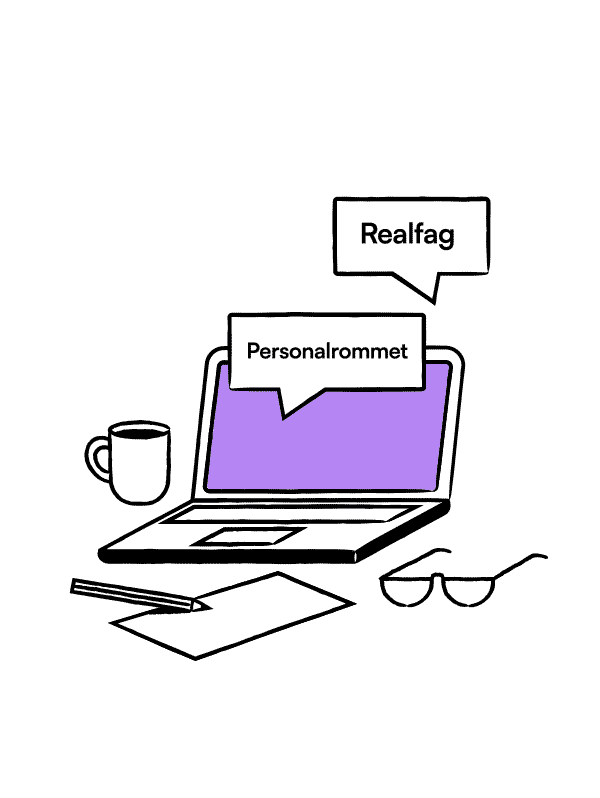
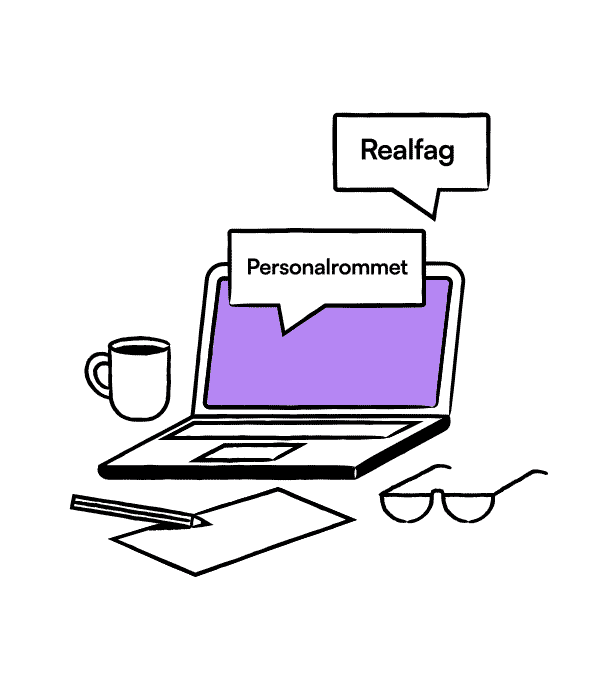
refactor(ndla-frontend): use design tokens instead of magic numbers on the arena page

Changed region(s): [[0.12, 0.1542, 0.84, 0.8634], [0.84, 0.6784, 0.93, 0.7093]]

diff --git a/frontend/ndla-frontend/src/containers/ArenaCampaignPage/ArenaHero.tsx b/frontend/ndla-frontend/src/containers/ArenaCampaignPage/ArenaHero.tsx
@@ -6,6 +6,7 @@
  *
  */
 
+import { breakpoints } from "@ndla/core";
 import { ArrowRightLine } from "@ndla/icons";
 import {
   Button,
@@ -28,11 +29,11 @@ const HeroSection = styled(ArenaSection, {
   base: {
     display: "flex",
     overflow: "hidden",
-    background: "purple.300",
+    background: "surface.brand.1.moderate",
     color: "text.onAction",
-    minHeight: "800px",
+    minHeight: "surface.xxlarge",
     desktop: {
-      minHeight: "clamp(600px, 60vw, 960px)",
+      minHeight: "surface.xlarge",
     },
   },
 });
@@ -46,10 +47,9 @@ const HeroImageWrapper = styled("div", {
       content: "''",
       position: "absolute",
       inset: "0",
-      background: "linear-gradient(180deg, rgba(0, 0, 0, 0) 25%, rgba(0, 0, 0, 0.55) 45%, rgba(0, 0, 0, 0.72) 100%)",
+      background: "linear-gradient(to bottom, transparent 25%, token(colors.grey.950/70) 50%)",
       desktop: {
-        background:
-          "linear-gradient(90deg, rgba(0, 0, 0, 0.6) 0%, rgba(0, 0, 0, 0.45) 50%, rgba(0, 0, 0, 0) 75%), linear-gradient(58.6deg, rgba(0, 0, 0, 0.6) 38.9%, rgba(0, 0, 0, 0.11) 63.9%)",
+        background: "linear-gradient(to right, token(colors.grey.950/80), token(colors.grey.950/30))",
       },
     },
   },
@@ -58,17 +58,10 @@ const HeroImageWrapper = styled("div", {
 const HeroImage = styled("img", {
   base: {
     position: "absolute",
-    insetInline: "0",
-    top: "-10%",
+    inset: "0",
     width: "100%",
-    height: "110%",
+    height: "100%",
     objectFit: "cover",
-    objectPosition: "65% center",
-    desktop: {
-      top: "0",
-      height: "100%",
-      objectPosition: "center 30%",
-    },
   },
 });
 
@@ -103,9 +96,8 @@ const HeroText = styled("div", {
 
 const HeroHeading = styled("h1", {
   base: {
+    textStyle: "heading.large",
     fontWeight: "semibold",
-    fontSize: "clamp(2.5rem, 1.25rem + 4.6vw, 5rem)",
-    lineHeight: "1.1",
     textWrap: "balance",
   },
 });
@@ -141,7 +133,6 @@ const PlayVideoButton = styled(Button, {
     _hover: {
       color: "text.onAction",
       textDecoration: "underline",
-      textUnderlineOffset: "4px",
     },
     _focusVisible: {
       outlineColor: "white",
@@ -169,13 +160,6 @@ const StyledDialogContent = styled(DialogContent, {
   },
 });
 
-const DialogVideoWrapper = styled("div", {
-  base: {
-    width: "min(100%, calc(75vh * 9 / 16))",
-    marginInline: "auto",
-  },
-});
-
 export const ArenaHero = () => {
   const { t } = useTranslation();
   const name = t("arenaCampaign.hero.captionName");
@@ -184,7 +168,10 @@ export const ArenaHero = () => {
   return (
     <HeroSection>
       <HeroImageWrapper aria-hidden="true">
-        <HeroImage src="/static/arena/hero.webp" alt="" fetchPriority="high" />
+        <picture>
+          <source srcSet="/static/arena/hero.webp" media={`(min-width: ${breakpoints.desktop})`} />
+          <HeroImage src="/static/arena/hero-mobile.webp" alt="" fetchPriority="high" />
+        </picture>
       </HeroImageWrapper>
       <HeroInner>
         <HeroText>
@@ -197,7 +184,7 @@ export const ArenaHero = () => {
           </HeroDescription>
           <HeroActions>
             <VisitArenaButton tone="light" />
-            <DialogRoot>
+            <DialogRoot size="xsmall">
               <DialogTrigger asChild>
                 <PlayVideoButton variant="link">
                   {t("arenaCampaign.hero.playVideo")}
@@ -210,9 +197,7 @@ export const ArenaHero = () => {
                   <DialogCloseButton />
                 </DialogHeader>
                 <DialogBody>
-                  <DialogVideoWrapper>
-                    <ArenaVideo videoId={arenaVideoIds.ingebjorg} title={videoTitle} />
-                  </DialogVideoWrapper>
+                  <ArenaVideo videoId={arenaVideoIds.ingebjorg} title={videoTitle} />
                 </DialogBody>
               </StyledDialogContent>
             </DialogRoot>

diff --git a/frontend/ndla-frontend/src/containers/ArenaCampaignPage/ArenaCampaignPage.tsx b/frontend/ndla-frontend/src/containers/ArenaCampaignPage/ArenaCampaignPage.tsx
@@ -27,7 +27,7 @@ const benefits = [
 
 const TopicsSection = styled(ArenaSection, {
   base: {
-    background: "purple.300",
+    background: "surface.brand.1.moderate",
     clipPath: "polygon(0 0, 100% 0, 100% calc(100% - var(--slant)), 0 100%)",
     paddingBlockStart: "xxlarge",
     paddingBlockEnd: "calc(var(--slant) + token(spacing.xxlarge))",
@@ -73,7 +73,6 @@ const TopicsLink = styled(SafeLink, {
     textDecoration: "none",
     _hover: {
       textDecoration: "underline",
-      textUnderlineOffset: "4px",
     },
   },
 });
@@ -110,18 +109,22 @@ const BenefitIcon = styled("span", {
     alignItems: "center",
     justifyContent: "center",
     flexShrink: "0",
-    width: "28",
-    height: "28",
+    width: "xxlarge",
+    height: "xxlarge",
     borderRadius: "full",
-    background: "purple.300",
+    background: "surface.brand.1.moderate",
     color: "primary",
     "& svg": {
-      width: "50%",
-      height: "50%",
+      width: "medium",
+      height: "medium",
     },
     desktop: {
-      width: "40",
-      height: "40",
+      width: "3xlarge",
+      height: "3xlarge",
+      "& svg": {
+        width: "xlarge",
+        height: "xlarge",
+      },
     },
   },
 });
@@ -139,7 +142,7 @@ const BenefitText = styled("div", {
 
 const OutroSection = styled(ArenaSection, {
   base: {
-    background: "blue.100",
+    background: "surface.brand.2.moderate",
     clipPath: "polygon(0 var(--slant), 100% 0, 100% 100%, 0 100%)",
     paddingBlockStart: "calc(var(--slant) + token(spacing.xxlarge))",
     paddingBlockEnd: "xxlarge",
@@ -172,9 +175,7 @@ const OutroText = styled(SectionText, {
 const OutroImage = styled("img", {
   base: {
     width: "100%",
-    aspectRatio: "342 / 274",
-    objectFit: "cover",
-    clipPath: "polygon(0 7%, 100% 0, 100% 100%, 0 100%)",
+    clipPath: "polygon(0 calc(var(--slant) / 2), 100% 0, 100% 100%, 0 100%)",
     desktop: {
       width: "50%",
       flexShrink: "0",

diff --git a/frontend/ndla-frontend/src/containers/ArenaCampaignPage/ArenaIllustration.tsx b/frontend/ndla-frontend/src/containers/ArenaCampaignPage/ArenaIllustration.tsx
@@ -19,25 +19,17 @@ const REDUCED_MOTION_QUERY = "(prefers-reduced-motion: reduce)";
 const IllustrationWrapper = styled("div", {
   base: {
     position: "relative",
-    overflow: "hidden",
-    flexShrink: "0",
     width: "100%",
-    maxWidth: "420px",
-    aspectRatio: "342 / 387",
+    maxWidth: "surface.small",
     desktop: {
-      width: "40%",
-      maxWidth: "640px",
+      maxWidth: "surface.medium",
     },
   },
 });
 
 const Illustration = styled("img", {
   base: {
-    position: "absolute",
-    insetInline: "0",
-    top: "-12.4%",
     width: "100%",
-    height: "117.28%",
   },
 });
 
@@ -76,10 +68,10 @@ export const ArenaIllustration = () => {
       {playing === undefined ? (
         <picture>
           <source srcSet={STILL_SRC} media={REDUCED_MOTION_QUERY} />
-          <Illustration src={ANIMATED_SRC} alt={alt} loading="lazy" />
+          <Illustration src={ANIMATED_SRC} alt={alt} width={600} height={681} loading="lazy" />
         </picture>
       ) : (
-        <Illustration src={isPlaying ? ANIMATED_SRC : STILL_SRC} alt={alt} />
+        <Illustration src={isPlaying ? ANIMATED_SRC : STILL_SRC} alt={alt} width={600} height={681} />
       )}
       <ToggleButton
         variant="secondary"

diff --git a/frontend/ndla-frontend/src/containers/ArenaCampaignPage/TeacherVoices.tsx b/frontend/ndla-frontend/src/containers/ArenaCampaignPage/TeacherVoices.tsx
@@ -55,7 +55,7 @@ const CardScroller = styled("div", {
     paddingInline: "var(--gutter)",
     paddingBlockEnd: "small",
     scrollbarWidth: "thin",
-    scrollbarColor: "token(colors.primary) token(colors.grey.200)",
+    scrollbarColor: "token(colors.stroke.default) token(colors.stroke.discrete)",
     _focusVisible: {
       outline: "3px solid",
       outlineColor: "stroke.default",
@@ -88,7 +88,7 @@ const CardList = styled("ul", {
 const Card = styled("li", {
   base: {
     flex: "0 0 auto",
-    width: "min(296px, 80vw)",
+    width: "surface.xsmall",
     scrollSnapAlign: "start",
     display: "flex",
     flexDirection: "column",
@@ -96,7 +96,7 @@ const Card = styled("li", {
     padding: "medium",
     background: "surface.default",
     border: "1px solid",
-    borderColor: "grey.200",
+    borderColor: "stroke.discrete",
     color: "text.default",
     desktop: {
       width: "auto",

diff --git a/frontend/ndla-frontend/src/containers/ArenaCampaignPage/ArenaLayout.tsx b/frontend/ndla-frontend/src/containers/ArenaCampaignPage/ArenaLayout.tsx
@@ -30,7 +30,13 @@ export const ArenaContent = styled("div", {
 export const ArenaSection = styled("section", {
   base: {
     position: "relative",
-    "--slant": "clamp(32px, 5.5vw, 96px)",
+    "--slant": "spacing.large",
+    tablet: {
+      "--slant": "spacing.xxlarge",
+    },
+    desktop: {
+      "--slant": "spacing.3xlarge",
+    },
   },
 });
 
@@ -63,9 +69,8 @@ export const NameAndRole = ({ name, role }: NameAndRoleProps) => (
 
 export const DisplayHeading = styled("h2", {
   base: {
+    textStyle: "heading.large",
     fontWeight: "semibold",
-    fontSize: "clamp(2.125rem, 1.5rem + 2vw, 3.25rem)",
-    lineHeight: "1.25",
     textWrap: "balance",
   },
 });

diff --git a/frontend/ndla-frontend/src/containers/ArenaCampaignPage/ArenaVideo.tsx b/frontend/ndla-frontend/src/containers/ArenaCampaignPage/ArenaVideo.tsx
@@ -22,7 +22,7 @@ const VideoFrame = styled("div", {
   base: {
     width: "100%",
     aspectRatio: "9 / 16",
-    background: "grey.950",
+    background: "surface.disabled",
   },
 });
 
